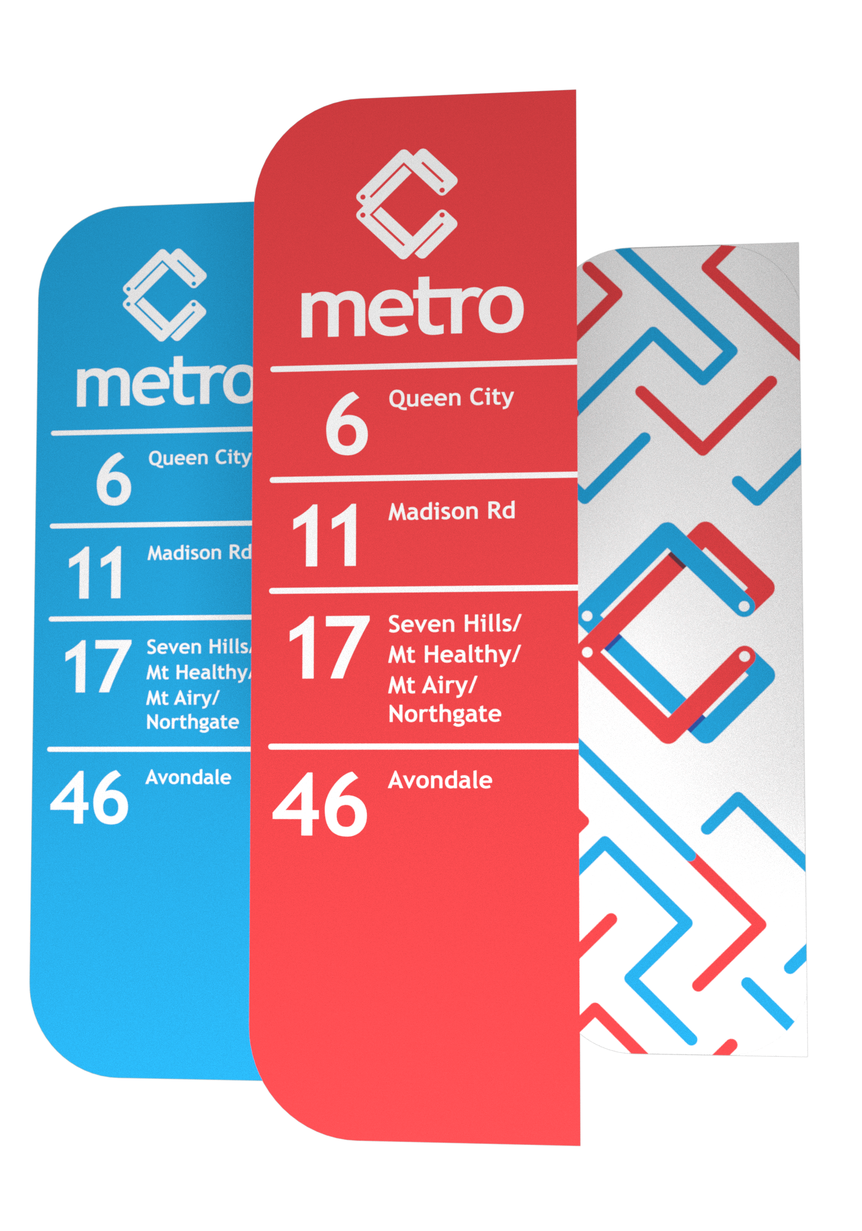
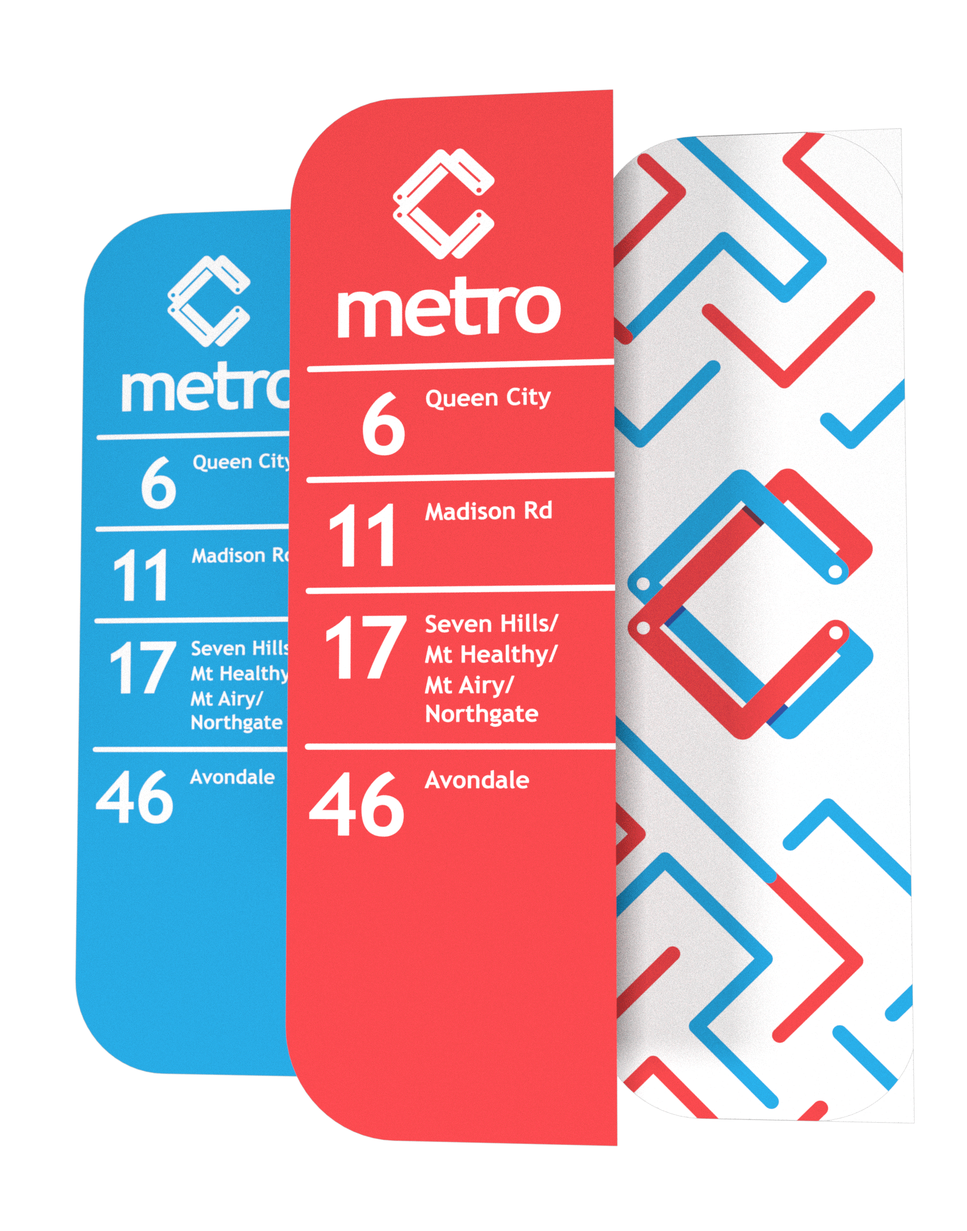
made more general changes to site and individual pages

diff --git a/client/src/components/Project/Metro.tsx b/client/src/components/Project/Metro.tsx
@@ -70,11 +70,11 @@ const Metro: React.FC = () => {
 
         <div className={'col col-8'}><img src={`${process.env.PUBLIC_URL}/images/metro/metro5.png`} alt={''}/></div>
 
-        <div className={'col col-3'}>
+        <div className={'col col-3'} style={{marginTop: '200px'}}>
           <h3>Bus Stop Signs</h3>
         </div>
 
-        <div className={'col col-3'}>
+        <div className={'col col-3'} style={{marginTop: '200px'}}>
           <p>
             As stated above, the inbound and outbound routes are differentiated on the schedule and in the
 
@@ -82,7 +82,7 @@ const Metro: React.FC = () => {
             </p>
         </div>
 
-        <div className={'col col-3'}>
+        <div className={'col col-3'} style={{marginTop: '200px'}}>
           <p>
           environment, using the blue and red – the two primary Metro brand colors.
           </p>
@@ -98,23 +98,51 @@ const Metro: React.FC = () => {
       <div className={'row'}>
 
         <div className={'col col-3'}>
-          <h2>Post Cards</h2>
+          <h3>Bus Graphics</h3>
         </div>
 
         <div className={'col col-3'}>
           <p>
-            One of the activation strategies  we created was a series od Local Post post cards.
-            These takeaways are prganic marketing materials that customers
+            A great expression of the pattern we created was on the wraps on the bus.
           </p>
         </div>
 
         <div className={'col col-3'}>
           <p>
-            of Localpost can mail to their friends and family. They can simply leave it and the Local
-            Post staff will mail it.  
+            This familiar graphic asset helps reinforce the new brand and it's new processes.
           </p>
         </div>
-        <div className={'col col-8'}><img src={`${process.env.PUBLIC_URL}/images/LocalPost/palace2.jpg`} alt={''}/></div>
+
+      <img 
+          className={'img-fullscreen'}
+          src={`${process.env.PUBLIC_URL}/images/metro/metro6.png`} 
+          alt={''}
+          style={{marginBottom: '-200px', marginTop: '200px'}}  
+        />
+
+      </div>
+
+      <div className={'row'}>
+
+        <div className={'col col-3'}>
+          <h3>Onboard Digital Signage</h3>
+        </div>
+
+        <div className={'col col-3'}>
+          <p>
+            While the rider is on the bus, a companion to the bus stop signs and the map helps guide them to their stop.
+          </p>
+        </div>
+
+        <div className={'col col-3'}>
+          <p>
+            This screen informs the rider what stops are upcoming, what busses stop there, and what things there are to see around it.
+          </p>
+        </div>
+
+        <div id={'video-wrapper'}>
+          <iframe src="https://player.vimeo.com/video/383624951?api=1" title={'metro-video'} style={{marginTop: '100px'}}></iframe>
+        </div>
 
       </div>
 

diff --git a/client/src/components/Project/Veronica.tsx b/client/src/components/Project/Veronica.tsx
@@ -3,21 +3,21 @@ import React from 'react';
 const Localpost: React.FC = () => {
   
   return (
-    <div id={'localpost'}>
+    <div id={'veronica'}>
 
       <div className={'row'}>
 
         <div className={'col col-4'}>
-          <h1>Local Post, 2018</h1>
+          <h1>Veronica Stanton, 2019</h1>
         </div>
 
         <div className={'col col-4'}>
           <h4>Project Type:</h4>
-          <h3>Branding</h3>
+          <h3>Photography, Illustration and Videography</h3>
           <h4>Client:</h4>
-          <h3>Local Post</h3>
+          <h3>Veronica Stanton</h3>
           <h4>Tools Used:</h4>
-          <h3>Illustrator, Photoshop, Cinema 4D</h3>
+          <h3>Illustrator, Photoshop, After Effects</h3>
         </div>
 
         <div className={'col col-4'}>
@@ -122,17 +122,17 @@ const Localpost: React.FC = () => {
 
         <div className={'col col-10'}><img src={`${process.env.PUBLIC_URL}/images/LocalPost/byop.png`} alt={''}/></div>
 
-        <div className={'col col-3'} style={{marginTop: '150px'}}>
+        <div className={'col col-3'}>
           <h3>Build Your Own Pizza Worksheet</h3>
         </div>
 
-        <div className={'col col-3'} style={{marginTop: '150px'}}>
+        <div className={'col col-3'}>
           <p>
             With a "build your own" pizza offering the highest profit margin to the restaurant, we wanted
             </p>
         </div>
 
-        <div className={'col col-3'} style={{marginTop: '150px'}}>
+        <div className={'col col-3'}>
           <p>
             to make that experience more interactive and fun to encourage customers to order this way.
           </p>

diff --git a/client/src/components/Pages/Home.tsx b/client/src/components/Pages/Home.tsx
@@ -21,25 +21,25 @@ const projects = [
     themeColor: '#B6BCBF'
   },
   {
-    route: 'localpost',
+    route: 'veronica',
     cursorText: '03',
     image: `${process.env.PUBLIC_URL}/images/home/vs.png`,
     title: 'Veronica Stanton',
     description: 'Partnering with a local restaurant and bar to refresh their look and name, I developed an inspired brand ecosystem that brought an idea to life. See how.',
     info: <span>Branding, Photography, Illustration and Videography<br/>August 2019</span>,
-    themeColor: '#E52354' 
+    themeColor: '#f0ddd1' 
   },
   {
-    route: 'localpost',
+    route: 'sda',
     cursorText: '04',
     image: `${process.env.PUBLIC_URL}/images/home/sda.png`,
     title: 'SDA',
-    info: <span>Branding<br/>June 2019</span>,
+    info: <span>Branding<br/>February 2019</span>,
     description: 'Partnering with a local restaurant and bar to refresh their look and name, I developed an inspired brand ecosystem that brought an idea to life. See how.',
-    themeColor: '#E52354' 
+    themeColor: '#407EC9' 
   },
   {
-    route: 'localpost',
+    route: 'roamio',
     cursorText: '05',
     image: `${process.env.PUBLIC_URL}/images/home/roamio.png`,
     title: 'Roamio',

diff --git a/client/src/components/App/App.tsx b/client/src/components/App/App.tsx
@@ -17,6 +17,9 @@ import Contact from '../Pages/Contact'
 // projects
 import Localpost from '../Project/Localpost'
 import Metro from '../Project/Metro'
+import Veronica from '../Project/Veronica'
+import SDA from '../Project/SDA'
+import Roamio from '../Project/Roamio'
 
 const apiUrl = process.env.NODE_ENV !== 'production' ? 'http://localhost:5000' : ''
 
@@ -28,7 +31,10 @@ const routes:any = {
   photography: { component: Photography },
   contact: { component: Contact },
   localpost: { component: Localpost, themeColor: '#E52354'},
-  metro: { component: Metro, themeColor: '#d9dde0', dotColor: 'rgba(0, 0, 0, 0.1)' }
+  metro: { component: Metro, themeColor: '#d9dde0', dotColor: 'rgba(0, 0, 0, 0.1)' },
+  veronica: { component: Veronica, themeColor: '#f0ddd1', dotColor: 'rgba(0, 0, 0, 0.1)' },
+  sda: { component: SDA, themeColor: '#407EC9', dotColor: 'rgba(0, 0, 0, 0.1)' },
+  roamio: { component: Roamio, themeColor: '#f0ddd1'}
 }
 
 const App: React.FC = () => {

diff --git a/client/src/components/Project/Roamio.tsx b/client/src/components/Project/Roamio.tsx
@@ -122,17 +122,17 @@ const Localpost: React.FC = () => {
 
         <div className={'col col-10'}><img src={`${process.env.PUBLIC_URL}/images/LocalPost/byop.png`} alt={''}/></div>
 
-        <div className={'col col-3'} style={{marginTop: '150px'}}>
+        <div className={'col col-3'}>
           <h3>Build Your Own Pizza Worksheet</h3>
         </div>
 
-        <div className={'col col-3'} style={{marginTop: '150px'}}>
+        <div className={'col col-3'}>
           <p>
             With a "build your own" pizza offering the highest profit margin to the restaurant, we wanted
             </p>
         </div>
 
-        <div className={'col col-3'} style={{marginTop: '150px'}}>
+        <div className={'col col-3'}>
           <p>
             to make that experience more interactive and fun to encourage customers to order this way.
           </p>

diff --git a/client/src/components/Project/SDA.tsx b/client/src/components/Project/SDA.tsx
@@ -122,17 +122,17 @@ const Localpost: React.FC = () => {
 
         <div className={'col col-10'}><img src={`${process.env.PUBLIC_URL}/images/LocalPost/byop.png`} alt={''}/></div>
 
-        <div className={'col col-3'} style={{marginTop: '150px'}}>
+        <div className={'col col-3'}>
           <h3>Build Your Own Pizza Worksheet</h3>
         </div>
 
-        <div className={'col col-3'} style={{marginTop: '150px'}}>
+        <div className={'col col-3'}>
           <p>
             With a "build your own" pizza offering the highest profit margin to the restaurant, we wanted
             </p>
         </div>
 
-        <div className={'col col-3'} style={{marginTop: '150px'}}>
+        <div className={'col col-3'}>
           <p>
             to make that experience more interactive and fun to encourage customers to order this way.
           </p>

diff --git a/client/src/components/Project/Project.css b/client/src/components/Project/Project.css
@@ -140,6 +140,14 @@
   border: none;
 }
 
+/* ----- ----- ---- ----- */
+/* VERONICA               */
+/* ----- ----- ---- ----- */
+
+#veronica * {
+  color: #2B2D30;
+}
+
 
 
 /* ----- ----- ---- ----- */
